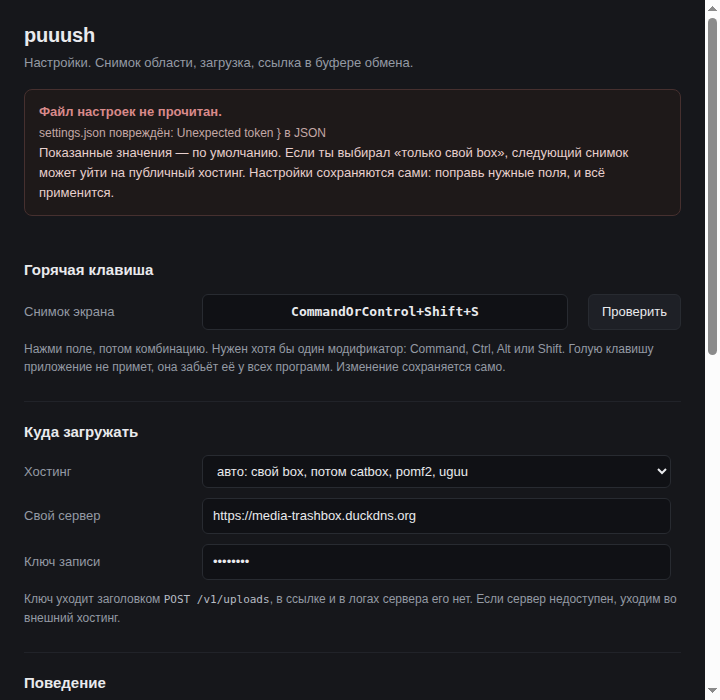
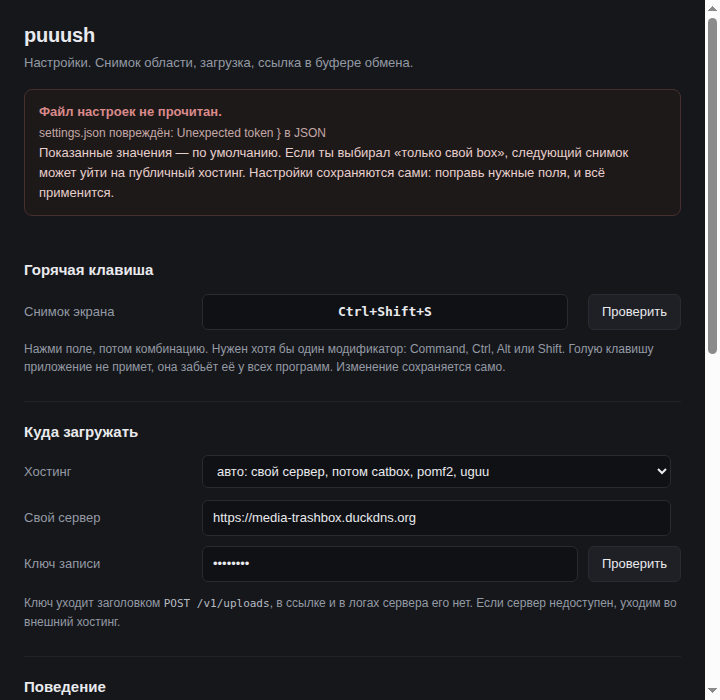
Поднять скор: проверка сервера, честный хоткей, ясность про хранилище
По разбору критики 19/32.

- свой сервер можно проверить прямо в окне: кнопка «Проверить» шлёт
  /v1/ping и говорит, жив ли сервер и подходит ли ключ. Неверный ключ
  больше не обнаруживается тем, что чей-то скриншот ушёл наружу.
  Причины отказа переведены на человеческий: «домен не найден»,
  «сервер не отвечает», «просрочен сертификат», «отверг ключ»;
- хоткей показан так, как его записывают в этой системе: ⌘⇧S на macOS и
  Ctrl+Shift+S на Windows и Linux. Символы ⌘ и ⌥ — запись macOS, на других
  системах они не читаются. Исходное значение для сохранения не меняется;
- окно отвечает на вопрос «куда уйдёт следующий снимок» до того, как его
  зададут: при внешнем хостинге сказано, что он публичный, при «только свой
  сервер» — что отката не будет;
- названия вариантов приведены к единому виду: «свой сервер» вместо
  «свой box», у всех вариантов есть поясняющий суффикс.

На сервере добавлен GET/POST /v1/ping: проверка ключа без записи файла.

Проверено в Chromium: хоткей в символах, сохранение исходного значения,
индикатор цели во всех трёх режимах, успех и отказ проверки сервера.
Плюс 38 тестов, окно выбора области 11 из 11, selftest 7 из 7.

diff --git a/src/settings.js b/src/settings.js
@@ -53,7 +53,7 @@ function showBroken(reason) {
 
 /** Раскладывает настройки по полям. */
 function renderSettings() {
-  $('hotkey').value = settings.hotkey || '';
+  $('hotkey').value = prettyCombo(settings.hotkey);
   if ($('host').options.length) $('host').value = settings.host;
   $('ownUrl').value = (settings.own && settings.own.base_url) || '';
   $('ownKey').value = (settings.own && settings.own.write_key) || '';
@@ -99,6 +99,38 @@ function keyFromEvent(e) {
   return parts.join('+');
 }
 
+const SYMBOL = {
+  Command: '\u2318', Cmd: '\u2318', CommandOrControl: '\u2318', CmdOrCtrl: '\u2318',
+  Control: '^', Ctrl: '^', Alt: '\u2325', Option: '\u2325', AltGr: '\u2325', Shift: '\u2191',
+  Space: 'Space', Backspace: '\u232b',
+};
+
+/**
+ * Показывает хоткей так, как его записывают в этой системе.
+ *
+ * Символы ⌘ ⌥ ⇧ — это запись macOS. На Windows и Linux человек их не узнает,
+ * поэтому там остаются слова: Ctrl+Alt+K. Человек не должен гадать, во что
+ * превратится CommandOrControl.
+ */
+const MAC_SYMBOL = {
+  Command: '\u2318', Cmd: '\u2318', CommandOrControl: '\u2318', CmdOrCtrl: '\u2318',
+  Control: '\u2303', Ctrl: '\u2303', Alt: '\u2325', Option: '\u2325',
+  AltGr: '\u2325', Shift: '\u21e7', Space: 'Space', Backspace: '\u232b',
+};
+const WORD_NAME = {
+  CommandOrControl: 'Ctrl', CmdOrCtrl: 'Ctrl', Control: 'Ctrl', Ctrl: 'Ctrl',
+  Command: 'Meta', Cmd: 'Meta', Alt: 'Alt', Option: 'Alt', AltGr: 'AltGr',
+  Shift: 'Shift', Space: 'Space', Backspace: 'Backspace',
+};
+
+function prettyCombo(combo) {
+  const mac = window.puuush.platform === 'darwin';
+  return String(combo || '').split('+').map((k) => {
+    if (mac) return MAC_SYMBOL[k] || (k.length === 1 ? k.toUpperCase() : k);
+    return WORD_NAME[k] || (k.length === 1 ? k.toUpperCase() : k);
+  }).join(mac ? '' : '+');
+}
+
 function startListening() {
   listening = true;
   $('hotkey').classList.add('listening');
@@ -110,7 +142,7 @@ function stopListening() {
   if (!listening) return;
   listening = false;
   $('hotkey').classList.remove('listening');
-  $('hotkey').value = settings.hotkey || '';
+  $('hotkey').value = prettyCombo(settings.hotkey);
 }
 
 $('hotkey').addEventListener('click', startListening);
@@ -119,7 +151,7 @@ $('hotkey').addEventListener('focus', startListening);
 // висеть, хотя настройка не менялась.
 $('hotkey').addEventListener('blur', stopListening);
 
-document.addEventListener('keydown', (e) => {
+document.addEventListener('keydown', async (e) => {
   if (!listening) return;
   e.preventDefault();
   e.stopPropagation();
@@ -132,7 +164,7 @@ document.addEventListener('keydown', (e) => {
   if (!combo || !combo.includes('+')) return;
   settings.hotkey = combo;
   stopListening();
-  save({ hotkey: combo });
+  await save({ hotkey: combo });
   if (settings.hotkey !== combo) settings.hotkey = combo;
   renderSettings();
 });
@@ -159,15 +191,55 @@ function syncOwnVisibility() {
   $('ownBox').style.display = v === 'own' || v === 'auto' ? 'block' : 'none';
 }
 
+function serverState(text, kind) {
+  const el = $('serverState');
+  el.textContent = text || '';
+  el.className = text ? 'hint ' + (kind || '') : 'hint';
+}
+
+/** Где уйдёт следующий снимок: отвечает на вопрос, на который раньше
+    приходилось отвечать в уме, глядя в меню трея. */
+function showNextTarget() {
+  const host = $('host').value;
+  const el = $('nextTarget');
+  if (host === 'own') {
+    el.textContent = 'Следующий снимок уйдёт на свой сервер. Если он недоступен, загрузка не состоится.';
+  } else if (host === 'auto') {
+    el.textContent = 'Следующий снимок уйдёт на свой сервер, а если он недоступен — на внешний хостинг.';
+  } else {
+    const name = $('host').selectedOptions[0] ? $('host').selectedOptions[0].textContent : 'выбранный хостинг';
+    el.textContent = `Следующий снимок уйдёт на ${name}. Это публичный хостинг.`;
+  }
+}
+
+$('verifyServer').addEventListener('click', async () => {
+  serverState('проверяю…');
+  try {
+    const r = await window.puuush.verifyServer();
+    const mb = r && r.bytes ? Math.round(r.bytes / 1048576) : 0;
+    serverState(
+      `сервер отвечает, ключ подходит. На нём ${r && r.files != null ? r.files : '?'} файлов, ${mb} МБ.`,
+      'ok'
+    );
+  } catch (e) {
+    serverState(`сервер не настроен или не отвечает: ${e && e.message ? e.message : e}`, 'bad');
+  }
+});
+
 $('host').addEventListener('change', async () => {
   syncOwnVisibility();
+  showNextTarget();
   await save({ host: $('host').value });
 });
 
-$('ownUrl').addEventListener('change', () =>
-  save({ own: { base_url: $('ownUrl').value.trim() } }));
-$('ownKey').addEventListener('change', () =>
-  save({ own: { write_key: $('ownKey').value.trim() } }));
+$('ownUrl').addEventListener('change', async () => {
+  serverState('');
+  await save({ own: { base_url: $('ownUrl').value.trim() } });
+});
+$('ownKey').addEventListener('change', async () => {
+  serverState('');
+  await save({ own: { write_key: $('ownKey').value.trim() } });
+});
 
 // ---------------------------------------------------------------------------
 // Поведение
@@ -353,9 +425,9 @@ async function initHosts() {
     o.textContent = text;
     sel.appendChild(o);
   };
-  add('auto', 'авто: свой box, потом catbox, pomf2, uguu');
+  add('auto', 'авто: свой сервер, потом catbox, pomf2, uguu');
   for (const h of hosts) add(h.name, h.label);
-  add('own', 'только свой box — ничего не уходит наружу');
+  add('own', 'только свой сервер — ничего не уходит наружу');
 }
 
 (async function init() {

diff --git a/src/main.js b/src/main.js
@@ -23,7 +23,7 @@ const {
 } = require('electron');
 
 const store = require('./store');
-const { publish, HOSTS } = require('./upload');
+const { publish, HOSTS, request } = require('./upload');
 const { captureTo } = require('./capture');
 
 const ASSETS = path.join(__dirname, '..', 'assets');
@@ -458,6 +458,33 @@ function registerIpc() {
   });
   handle('puuush:hosts', () => HOSTS.map((h) => ({ name: h.name, label: h.label, temp: h.temp })));
   handle('puuush:reapply-hotkey', () => applyHotkey());
+  handle('puuush:verify-server', async (_e, cfg) => {
+    const own = (cfg && cfg.base_url) ? cfg : (store.getSettings().own || {});
+    if (!own.base_url || !own.write_key) {
+      throw new Error('сервер или ключ не заполнены');
+    }
+    let res;
+    try {
+      res = await request(`${own.base_url.replace(/\/+$/, '')}/v1/ping`, {
+        headers: { Authorization: 'Bearer ' + own.write_key },
+        timeout: 10000,
+      });
+    } catch (e) {
+      // Причины отказа переводим в человеческие: человеку нужно знать, что
+      // делать, а не код сетевой ошибки.
+      if (e.code === 'ENOTFOUND') throw new Error('домен не найден');
+      if (e.code === 'ECONNREFUSED') throw new Error('сервер не отвечает');
+      if (e.code === 'CERT_HAS_EXPIRED') throw new Error('просрочен сертификат');
+      throw new Error(`сервер недоступен: ${e.message}`);
+    }
+    if (res.status === 401) throw new Error('сервер отверг ключ');
+    if (res.status !== 200) throw new Error(`сервер ответил ${res.status}`);
+    try {
+      return JSON.parse(res.body.toString('utf8'));
+    } catch (e) {
+      return { ok: true };
+    }
+  });
   handle('puuush:choose-file', async () => {
     const r = await dialog.showOpenDialog({ properties: ['openFile'] });
     return r.canceled ? null : r.filePaths[0];

diff --git a/src/settings.html b/src/settings.html
@@ -90,6 +90,8 @@
      выглядел бы сиротой и ломался бы при другой длине подписи. */
   .hint { color: var(--dim); font-size: 12px; margin: 6px 0 12px; }
   .hint:last-child { margin-bottom: 0; }
+  .hint.ok { color: #8ed3a8; }
+  .hint.bad { color: var(--bad); }
   .hint code {
     font-family: ui-monospace, SFMono-Regular, Menlo, monospace;
     font-size: 11px; color: #b7bcc4;
@@ -183,6 +185,7 @@
       <select id="host" class="grow"></select>
       <span></span>
     </div>
+    <p class="hint" id="nextTarget"></p>
     <div id="ownBox">
       <div class="row">
         <label for="ownUrl">Свой сервер</label>
@@ -193,8 +196,9 @@
         <label for="ownKey">Ключ записи</label>
         <input type="password" id="ownKey" class="grow" autocomplete="off"
                spellcheck="false" placeholder="ключ, который выдал сервер">
-        <span></span>
+        <button id="verifyServer">Проверить</button>
       </div>
+      <p class="hint" id="serverState" role="status" aria-live="polite"></p>
       <p class="hint">
         Ключ уходит заголовком <code>POST /v1/uploads</code>, в ссылке и в логах
         сервера его нет. Если сервер недоступен, уходим во внешний хостинг.

diff --git a/server/index.js b/server/index.js
@@ -524,6 +524,20 @@ async function handleRequest(req, res, cfg, limit) {
       if (req.method === 'POST' && path_ === '/v1/uploads') {
         return await handleUpload(req, res, cfg);
       }
+      // Проверка «сервер вообще живой и ключ подходит» без записи файла.
+      // Нужна окну настроек: иначе неверный ключ обнаруживается только тем,
+      // что скриншот ушёл наружу.
+      if ((req.method === 'GET' || req.method === 'POST') && path_ === '/v1/ping') {
+        const u = await usage(cfg);
+        return json(res, 200, {
+          ok: true,
+          service: 'puuush-server',
+          uptime: Math.floor((Date.now() - started) / 1000),
+          files: u.count,
+          bytes: u.bytes,
+        });
+      }
+
       if (req.method === 'GET' && path_ === '/v1/info') {
         const u = await usage(cfg);
         return json(res, 200, {

diff --git a/src/upload.js b/src/upload.js
@@ -410,7 +410,7 @@ async function publish(filePath, opts = {}) {
   );
 }
 
-module.exports = { publish, verify, safeName, HOSTS };
+module.exports = { publish, verify, safeName, HOSTS, request };
 
 // --- точки подмены для тестов -------------------------------------------------
 // Зовёт их только тест. Проверка на каждый запрос стоит одно сравнение

diff --git a/src/preload.js b/src/preload.js
@@ -29,6 +29,7 @@ contextBridge.exposeInMainWorld('puuush', {
   clearHistory: () => ipcRenderer.invoke('puuush:clear-history'),
   hosts: () => ipcRenderer.invoke('puuush:hosts'),
   reapplyHotkey: () => ipcRenderer.invoke('puuush:reapply-hotkey'),
+  verifyServer: () => ipcRenderer.invoke('puuush:verify-server'),
 
   // --- файлы и загрузка ---
   chooseFile: () => ipcRenderer.invoke('puuush:choose-file'),
